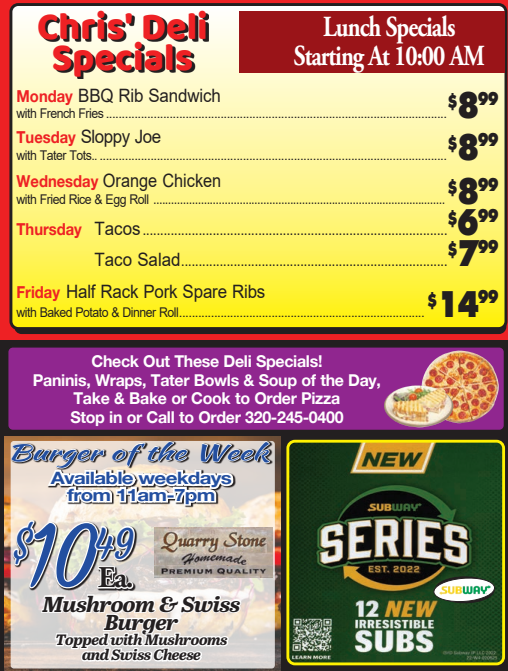
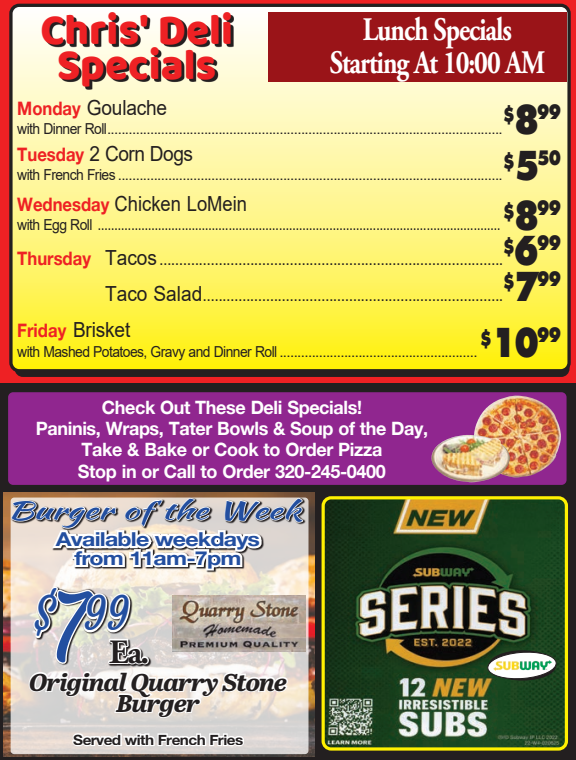
Updated to current weeks ads

diff --git a/test/scroll.html b/test/scroll.html
@@ -4,23 +4,86 @@
   <meta charset="UTF-8">
   <meta name="viewport" content="width=device-width, initial-scale=1.0">
   <title>Change Input Background</title>
-  <style>
-    /* Change the background color of email input */
-    input[type="email"] {
-      background-color: #f0e68c; /* Light khaki background */
-      color: #333; /* Text color */
-      padding: 10px;
-      border: 1px solid #ccc;
-      border-radius: 5px;
-    }
-  </style>
+
+  <link href="https://cdn.jsdelivr.net/npm/tailwindcss@2.2.19/dist/tailwind.min.css" rel="stylesheet">
+
 </head>
 <body>
-  <form>
-    <label for="email">Email:</label>
-    <input type="email" id="email" name="email" placeholder="Enter your email">
-    <button type="submit">Submit</button>
-  </form>
+  
+<div class="bg-white border-slate-100 dark:bg-slate-800 dark:border-slate-500 border-b rounded-t-xl p-4 pb-6 sm:p-10 sm:pb-8 lg:p-6 xl:p-10 xl:pb-8 space-y-6 sm:space-y-8 lg:space-y-6 xl:space-y-8">
+  <div class="flex items-center space-x-4">
+    <img src="/full-stack-radio.png" alt="" width="88" height="88" class="flex-none rounded-lg bg-slate-100" loading="lazy" />
+    <div class="min-w-0 flex-auto space-y-1 font-semibold">
+      <p class="text-cyan-500 dark:text-cyan-400 text-sm leading-6">
+        <abbr title="Episode">Ep.</abbr> 128
+      </p>
+      <h2 class="text-slate-500 dark:text-slate-400 text-sm leading-6 truncate">
+        Scaling CSS at Heroku with Utility Classes
+      </h2>
+      <p class="text-slate-900 dark:text-slate-50 text-lg">
+        Full Stack Radio
+      </p>
+    </div>
+  </div>
+  <div class="space-y-2">
+    <div class="relative">
+      <div class="bg-slate-100 dark:bg-slate-700 rounded-full overflow-hidden">
+        <div class="bg-cyan-500 dark:bg-cyan-400 w-1/2 h-2" role="progressbar" aria-label="music progress" aria-valuenow="1456" aria-valuemin="0" aria-valuemax="4550"></div>
+      </div>
+      <div class="ring-cyan-500 dark:ring-cyan-400 ring-2 absolute left-1/2 top-1/2 w-4 h-4 -mt-2 -ml-2 flex items-center justify-center bg-white rounded-full shadow">
+        <div class="w-1.5 h-1.5 bg-cyan-500 dark:bg-cyan-400 rounded-full ring-1 ring-inset ring-slate-900/5"></div>
+      </div>
+    </div>
+    <div class="flex justify-between text-sm leading-6 font-medium tabular-nums">
+      <div class="text-cyan-500 dark:text-slate-100">24:16</div>
+      <div class="text-slate-500 dark:text-slate-400">75:50</div>
+    </div>
+  </div>
+</div>
+<div class="bg-slate-50 text-slate-500 dark:bg-slate-600 dark:text-slate-200 rounded-b-xl flex items-center">
+  <div class="flex-auto flex items-center justify-evenly">
+    <button type="button" aria-label="Add to favorites">
+      <svg width="24" height="24">
+        <path d="M7 6.931C7 5.865 7.853 5 8.905 5h6.19C16.147 5 17 5.865 17 6.931V19l-5-4-5 4V6.931Z" fill="currentColor" stroke="currentColor" stroke-width="2" stroke-linecap="round" stroke-linejoin="round" />
+      </svg>
+    </button>
+    <button type="button" class="hidden sm:block lg:hidden xl:block" aria-label="Previous">
+      <svg width="24" height="24" fill="none">
+        <path d="m10 12 8-6v12l-8-6Z" fill="currentColor" stroke="currentColor" stroke-width="2" stroke-linecap="round" stroke-linejoin="round" />
+        <path d="M6 6v12" stroke="currentColor" stroke-width="2" stroke-linecap="round" stroke-linejoin="round" />
+      </svg>
+    </button>
+    <button type="button" aria-label="Rewind 10 seconds">
+      <svg width="24" height="24" fill="none">
+        <path d="M6.492 16.95c2.861 2.733 7.5 2.733 10.362 0 2.861-2.734 2.861-7.166 0-9.9-2.862-2.733-7.501-2.733-10.362 0A7.096 7.096 0 0 0 5.5 8.226" stroke="currentColor" stroke-width="2" stroke-linecap="round" stroke-linejoin="round" />
+        <path d="M5 5v3.111c0 .491.398.889.889.889H9" stroke="currentColor" stroke-width="2" stroke-linecap="round" stroke-linejoin="round" />
+      </svg>
+    </button>
+  </div>
+  <button type="button" class="bg-white text-slate-900 dark:bg-slate-100 dark:text-slate-700 flex-none -my-2 mx-auto w-20 h-20 rounded-full ring-1 ring-slate-900/5 shadow-md flex items-center justify-center" aria-label="Pause">
+    <svg width="30" height="32" fill="currentColor">
+      <rect x="6" y="4" width="4" height="24" rx="2" />
+      <rect x="20" y="4" width="4" height="24" rx="2" />
+    </svg>
+  </button>
+  <div class="flex-auto flex items-center justify-evenly">
+    <button type="button" aria-label="Skip 10 seconds">
+      <svg width="24" height="24" fill="none">
+        <path d="M17.509 16.95c-2.862 2.733-7.501 2.733-10.363 0-2.861-2.734-2.861-7.166 0-9.9 2.862-2.733 7.501-2.733 10.363 0 .38.365.711.759.991 1.176" stroke="currentColor" stroke-width="2" stroke-linecap="round" stroke-linejoin="round" />
+        <path d="M19 5v3.111c0 .491-.398.889-.889.889H15" stroke="currentColor" stroke-width="2" stroke-linecap="round" stroke-linejoin="round" />
+      </svg>
+    </button>
+    <button type="button" class="hidden sm:block lg:hidden xl:block" aria-label="Next">
+      <svg width="24" height="24" fill="none">
+        <path d="M14 12 6 6v12l8-6Z" fill="currentColor" stroke="currentColor" stroke-width="2" stroke-linecap="round" stroke-linejoin="round" />
+        <path d="M18 6v12" stroke="currentColor" stroke-width="2" stroke-linecap="round" stroke-linejoin="round" />
+      </svg>
+    </button>
+    <button type="button" class="rounded-lg text-xs leading-6 font-semibold px-2 ring-2 ring-inset ring-slate-500 text-slate-500 dark:text-slate-100 dark:ring-0 dark:bg-slate-500">
+      1x
+    </button>
+  </div>
+</div>
 </body>
 </html>
 

diff --git a/scripts/home.js b/scripts/home.js
@@ -4,7 +4,7 @@ import {activateButton, openContactInfo} from "./header.js";
 const weeklyAdLink = document.querySelector('.js-weekly-ad-link');
 
 weeklyAdLink.addEventListener('click', () => {
-  window.open('https://www.chrisfoodcenter.com/_files/ugd/a8f83f_f4edfed9b237442facd5c33f34e8c40b.pdf', '_blank');
+  window.open('https://www.chrisfoodcenter.com/_files/ugd/a8f83f_f4a71dd09dee4367b2c63113ecf6249f.pdf', '_blank');
 })
 
 const meatProcessingLink = document.querySelector('.js-meat-processing-link');
